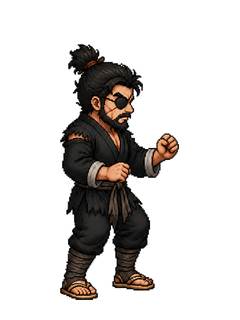
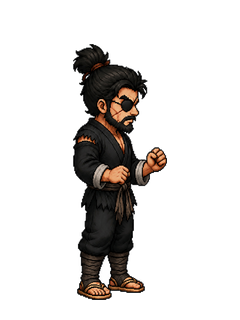
art: refine T45 bandit right-anchor proportions

Changed region(s): [[0.2333, 0.125, 0.7583, 0.9375]]

diff --git a/assets/_trial_20260906/t45_batch2a_handgrip_codex_native/normalize_handgrip.py b/assets/_trial_20260906/t45_batch2a_handgrip_codex_native/normalize_handgrip.py
@@ -4,10 +4,10 @@ from collections import deque
 import json, hashlib
 JOB=Path('assets/_trial_20260906/t45_batch2a_handgrip_codex_native'); RAW=JOB/'raw'; OUT=JOB/'normalized'; QA=JOB/'qa'; OUT.mkdir(exist_ok=True); QA.mkdir(exist_ok=True)
 chosen={
-'shanzei_a_right':'shanzei_a_right_grip_attempt1.png',
+'shanzei_a_right':'shanzei_a_right_grip_attempt2.png',
 'shanzei_a_rightup':'shanzei_a_rightup_grip_attempt1.png',
 'shanzei_a_rightdown':'shanzei_a_rightdown_grip_attempt1.png',
-'shanzei_b_right':'shanzei_b_right_grip_attempt1.png',
+'shanzei_b_right':'shanzei_b_right_grip_attempt2.png',
 'shanzei_b_rightup':'shanzei_b_rightup_grip_attempt1.png',
 'shanzei_b_rightdown':'shanzei_b_rightdown_grip_attempt1.png'}
 def cut_white(im):

diff --git a/tasks/threads/T45.md b/tasks/threads/T45.md
@@ -52,3 +52,5 @@
 | 2026-09-06 | Codex（art） | 🎨 T45 批 2a 空手锚六张候选已生成，停 Leo 目验 | ImageGen 额度恢复后完成山贼甲/乙右、右上、右下六向候选；甲右向首轮拒绝后用第2次，甲右上/右下为第2次紧凑版，乙右向保留第1次（第2次过窄且远手不可见）。全部已确定性去白/归一到 240×320；contact `assets/_trial_20260906/t45_batch2a_codex_native/contact/contact_sheet_2a_selected.png`。机械 5/6 严格比例通过，乙右向 0.551 超红线约1px；候选未交 PM/rd，等 Leo 目验定锚。逐张画面描述见 `qa/visual_candidate_descriptions.md`。 |
 | 2026-09-06 | Leo → Codex（art） | 🔧 T45 批 2a 手形修正令 | 六张山贼锚的双手统一改为握手/握柄姿态，便于后续朴刀武器层挂接；仍保持空手身体帧，不把刀柄画进身体。旧开放手候选保留回退，新开 `t45_batch2a_handgrip_codex_native` 修正批。 |
 | 2026-09-06 | Codex（art） | 🎨 T45 批 2a 握手形六张候选完成，停 Leo 目验 | 双手闭合握拳修正已生成并归一：shanzei_a/b × right/rightup/rightdown 共 6 张；contact `assets/_trial_20260906/t45_batch2a_handgrip_codex_native/contact/contact_sheet_2a_handgrip.png`。未画武器；机械 5/6 严格比例 PASS（乙右向 0.551 边界），未交 PM/rd。 |
+| 2026-09-06 | Leo → Codex（art） | 🔧 T45 批 2a 握手形首列比例修正 | Leo 指出总览首列两张（shanzei_a_right / shanzei_b_right）比例不对；仅重做这两张，锁住握拳手形、身份与右向，按同组右上/右下锚收窄身形，其他四张不动。 |
+| 2026-09-06 | Codex（art） | 🎨 T45 批 2a 握手形 revision 2 候选 | 首列两张已完成第2次局部修正，contact `assets/_trial_20260906/t45_batch2a_handgrip_codex_native/contact/contact_sheet_2a_handgrip_v2.png`；其余四张沿用 revision 1。两张首列更窄直立，比例机械值 0.367/0.371 低于 0.38 下限，先停 Leo 目验，不继续自改。 |

diff --git a/tasks/LOG.md b/tasks/LOG.md
@@ -400,3 +400,5 @@
 | 2026-09-06 | Leo → Codex（art） | 🔧 T45 批 2a 手形修正令 | 六张山贼锚双手统一改为握手/握柄姿态，方便朴刀层挂接；身体帧仍不画武器。旧开放手候选降为回退，新开 handgrip 修正批。 |
 | 2026-09-06 | Codex（art） | 🎨 T45 批 2a 握手形六张候选停 Leo 目验 | 6 张原生局部修正+确定性去白归一完成；contact `assets/_trial_20260906/t45_batch2a_handgrip_codex_native/contact/contact_sheet_2a_handgrip.png`，manifest/QA/job 已留档；未交 PM/rd，等待 Leo 定稿。 |
 | 2026-09-06 | ZCode | ✅ 首段接线卡 PM 四门复验通过（63dac3e，已 push） | 260 绿新基线（+22）/行为面 14/14/shot16/e2e 11 MATCH/DBG=0/三零/红线零碰（battle-core/input/hex/config battle/game.ts）；hero 61/61 加载+48 张六向三档截图留档；先红后绿证据=19 红+2 回归锁+1 假绿盲区如实登记；主架构技术验收已派（seq=58）；verTag v1788679650837 待 Leo L 环 |
+| 2026-09-06 | Leo → Codex（art） | 🔧 T45 批 2a 握手形首列比例修正 | Leo 指出 shanzei_a_right / shanzei_b_right 两张首列比例不对；锁定握拳与右向，仅重做这两张，其他四张不动。 |
+| 2026-09-06 | Codex（art） | 🎨 T45 批 2a 握手形 revision 2 候选 | 首列两张第2次局部修正完成；contact `assets/_trial_20260906/t45_batch2a_handgrip_codex_native/contact/contact_sheet_2a_handgrip_v2.png`。新轮廓更窄直立但比例机械值 0.367/0.371 低于 0.38，停 Leo 目验；未交 PM/rd。 |

diff --git a/assets/_trial_20260906/t45_batch2a_handgrip_codex_native/qa/visual_candidate_descriptions.md b/assets/_trial_20260906/t45_batch2a_handgrip_codex_native/qa/visual_candidate_descriptions.md
@@ -1,10 +1,10 @@
-# T45 批 2a 握手形候选描述
+# T45 批 2a 握手形候选描述（revision 2）
 
-- `shanzei_a_right`: 右侧独眼山贼，画面右手抬起握拳，另一手腰前握拳，双脚站稳。
-- `shanzei_a_rightup`: 背斜侧朝右上，双手下垂但均为闭合握拳，后脑/右肩为主。
-- `shanzei_a_rightdown`: 正斜侧朝右下，双拳收在腰前，眼罩/单眼/胸口可见。
-- `shanzei_b_right`: 右向偏斜侧，前手抬起握拳，另一手腰前握拳。
-- `shanzei_b_rightup`: 背斜侧朝右上，前后两手均闭合握拳，红头巾后结清楚。
-- `shanzei_b_rightdown`: 正斜侧朝右下，双拳前置，红头巾和双眼清楚。
+- `shanzei_a_right`：首列比例修正版，纯右侧、窄直立轮廓；两拳均空置，身份/眼罩保持。
+- `shanzei_a_rightup`：背斜侧朝右上，双手闭合握拳，后脑/右肩为主。
+- `shanzei_a_rightdown`：正斜侧朝右下，双拳收在腰前，眼罩/单眼/胸口可见。
+- `shanzei_b_right`：首列比例修正版，纯右侧、窄直立轮廓；双拳均空置，红头巾身份保持。
+- `shanzei_b_rightup`：背斜侧朝右上，前后两手均闭合握拳。
+- `shanzei_b_rightdown`：正斜侧朝右下，双拳前置。
 
-六张均未画武器、刀柄、刀鞘或其他道具；待 Leo 目验。
+六张均未画武器、刀柄、刀鞘或其他道具；revision 2 只替换两张首列右向候选，待 Leo 目验。
